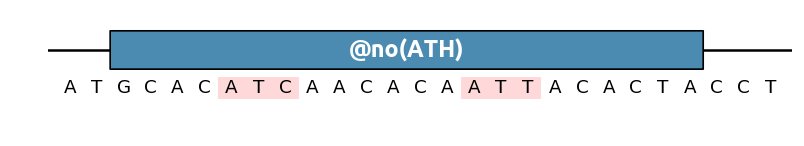
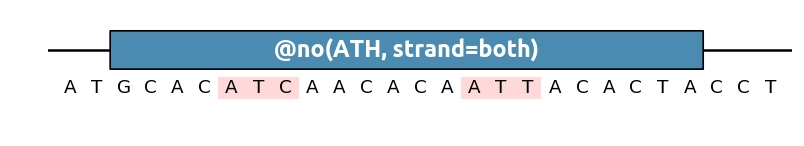
added ``strand`` parameter in AvoidPattern and EnforcePatternOccurence. Reworked docs

Changed region(s): [[0.342, 0.2466, 0.6841, 0.411]]

diff --git a/dnachisel/builtin_specifications/EnforcePatternOccurence.py b/dnachisel/builtin_specifications/EnforcePatternOccurence.py
@@ -37,6 +37,14 @@ class EnforcePatternOccurence(Specification):
       If true, new inserted patterns will prioritize locations at the center
       of the specification's location. Else the insertion will happen at
       the beginning of the location.
+
+    strand
+      Alternative way to set the strand, meant to be used in two cases only:
+      (1) in a Genbank annotation by setting ``strand=both`` to indicate that
+      the pattern could be on both strands (otherwise, only the
+      feature's strand will be considered).
+      (2) if you want to create a specification without preset location, but
+      with a set strand: ``EnforcePatternOccurence('BsmBI_site', strand=1)``
     """
 
     best_possible_score = 0
@@ -44,13 +52,26 @@ class EnforcePatternOccurence(Specification):
     shorthand_name = "insert"
 
     def __init__(
-        self, pattern=None, occurences=1, location=None, center=True, boost=1.0
+        self,
+        pattern=None,
+        occurences=1,
+        location=None,
+        strand="from_location",
+        center=True,
+        boost=1.0,
     ):
         """Initialize."""
         if isinstance(pattern, str):
             pattern = SequencePattern.from_string(pattern)
         self.pattern = pattern
         self.location = Location.from_data(location)
+        if strand != "from_location":
+            if strand == "both":
+                strand = 0
+            if strand not in [-1, 0, 1]:
+                raise ValueError("unknown strand: %s" % strand)
+            self.location.strand = strand
+        self.strand = strand
         self.occurences = occurences
         self.center = center
         self.boost = boost
@@ -60,7 +81,7 @@ class EnforcePatternOccurence(Specification):
 
     def evaluate(self, problem):
         """Score the difference between expected and observed n_occurences."""
-        matches = self.pattern.find_matches(problem.sequence, self.location, )
+        matches = self.pattern.find_matches(problem.sequence, self.location,)
         score = -abs(len(matches) - self.occurences)
 
         if score == 0:

diff --git a/dnachisel/builtin_specifications/AvoidPattern.py b/dnachisel/builtin_specifications/AvoidPattern.py
@@ -6,7 +6,6 @@ from ..Specification.Specification import Specification
 from ..Specification.SpecEvaluation import SpecEvaluation
 
 
-
 class AvoidPattern(Specification):
     """Enforce that the given pattern is absent in the sequence.
 
@@ -20,7 +19,18 @@ class AvoidPattern(Specification):
 
     location
       Location of the DNA segment on which to enforce the pattern e.g.
-      ``Location(10, 45, 1)``
+      ``Location(10, 45, 1)``. For patterns which are not palyndromic,
+      the strand matters! use +1 for eliminating the pattern on the +1 strand
+      only, -1 for eliminating the pattern on the -1 strand, and 0 for
+      eliminating the pattern on both strands.
+
+    strand
+      Alternative way to set the strand, meant to be used in two cases only:
+      (1) in a Genbank annotation by setting ``strand=both`` to indicate that
+      the pattern should be avoided on both strands (otherwise, only the
+      feature's strand will be considered).
+      (2) if you want to create a specification without preset location, but
+      with a set strand: ``AvoidPattern('BsmBI_site', strand=1)``
 
     """
 
@@ -28,12 +38,21 @@ class AvoidPattern(Specification):
     priority = 1
     shorthand_name = "no"  # will appear as, for instance, @no(BsmBI_site)
 
-    def __init__(self, pattern=None, location=None, boost=1.0):
+    def __init__(
+        self, pattern=None, location=None, strand="from_location", boost=1.0
+    ):
         """Initialize."""
         if isinstance(pattern, str):
             pattern = SequencePattern.from_string(pattern)
         self.pattern = pattern
         self.location = Location.from_data(location)
+        if strand != "from_location":
+            if strand == "both":
+                strand = 0
+            if strand not in [-1, 0, 1]:
+                raise ValueError("unknown strand: %s" % strand)
+            self.location.strand = strand
+        self.strand = strand
         self.boost = boost
 
     def evaluate(self, problem):

diff --git a/dnachisel/builtin_specifications/AvoidHairpins.py b/dnachisel/builtin_specifications/AvoidHairpins.py
@@ -38,11 +38,6 @@ class AvoidHairpins(Specification):
 
     def initialized_on_problem(self, problem, role=None):
         return self._copy_with_full_span_if_no_location(problem)
-        # if self.location is None:
-        #     location = Location(0, len(problem.sequence), 1)
-        #     return self.copy_with_changes(location=location)
-        # else:
-        #     return self
 
     def evaluate(self, problem):
         """Return the score (-number_of_hairpins) and hairpins locations."""

diff --git a/docs/_static/images/genbank_annotations/generate_annotations.py b/docs/_static/images/genbank_annotations/generate_annotations.py
@@ -59,7 +59,7 @@ def plot_row_feature(row):
     if row.highlights != "none":
         for (start, end, _) in parse_locations(row.highlights):
             ax.fill_between(
-                [start - 1.5, end - 0.5], -0.9, -0.5, facecolor="r", alpha=0.15
+                [start - 0.5, end - 0.5], -0.9, -0.5, facecolor="r", alpha=0.15
             )
     ax.set_ylim(top=0.7)
     ax.figure.set_figheight(1)

diff --git a/dnachisel/builtin_specifications/AvoidHeterodimerization.py b/dnachisel/builtin_specifications/AvoidHeterodimerization.py
@@ -43,7 +43,6 @@ class AvoidHeterodimerization(Specification):
     def localize(self, location, problem=None):
         if self.location.overlap_region(location) is None:
             return None
-        # VoidSpecification(parent_specification=self)
         else:
             return self
 

diff --git a/docs/genbank/genbank_api.rst b/docs/genbank/genbank_api.rst
@@ -15,8 +15,15 @@ Pattern removal
     specifications such as ``no()`` or ``insert()`` indicates where to look for
     the pattern. Annotations in the +1 sense indicate that the
     pattern should only be looked for in the +1 (5'3') strand. Patterns in the -1
-    strand are only looked at in the -1 (3'5') sense. Annotations with no
-    orientation indicate that the pattern should be looked for in both strands.
+    strand are only looked at in the -1 (3'5') sense.
+
+.. caution:: Use ``strand=both`` in Genbank files to target both strands.
+
+    Standard Genbank does not allow you to create strands without direction
+    (unlike the Biopython Record format, or the Snapgene format. So keep in
+    mind that by default, only the feature's strand is considered. In ``@no()``
+    and ``@insert()``, you can use ``strand=both`` to indicate that the pattern
+    should be avoided in both strands, for instance ``@no(BsaI_site, strand=both)``.
 
 To remove a pattern in a given region, use the ``@no()`` label
 (alias for ``@AvoidPattern()``). For instance to remove any GC pattern:
